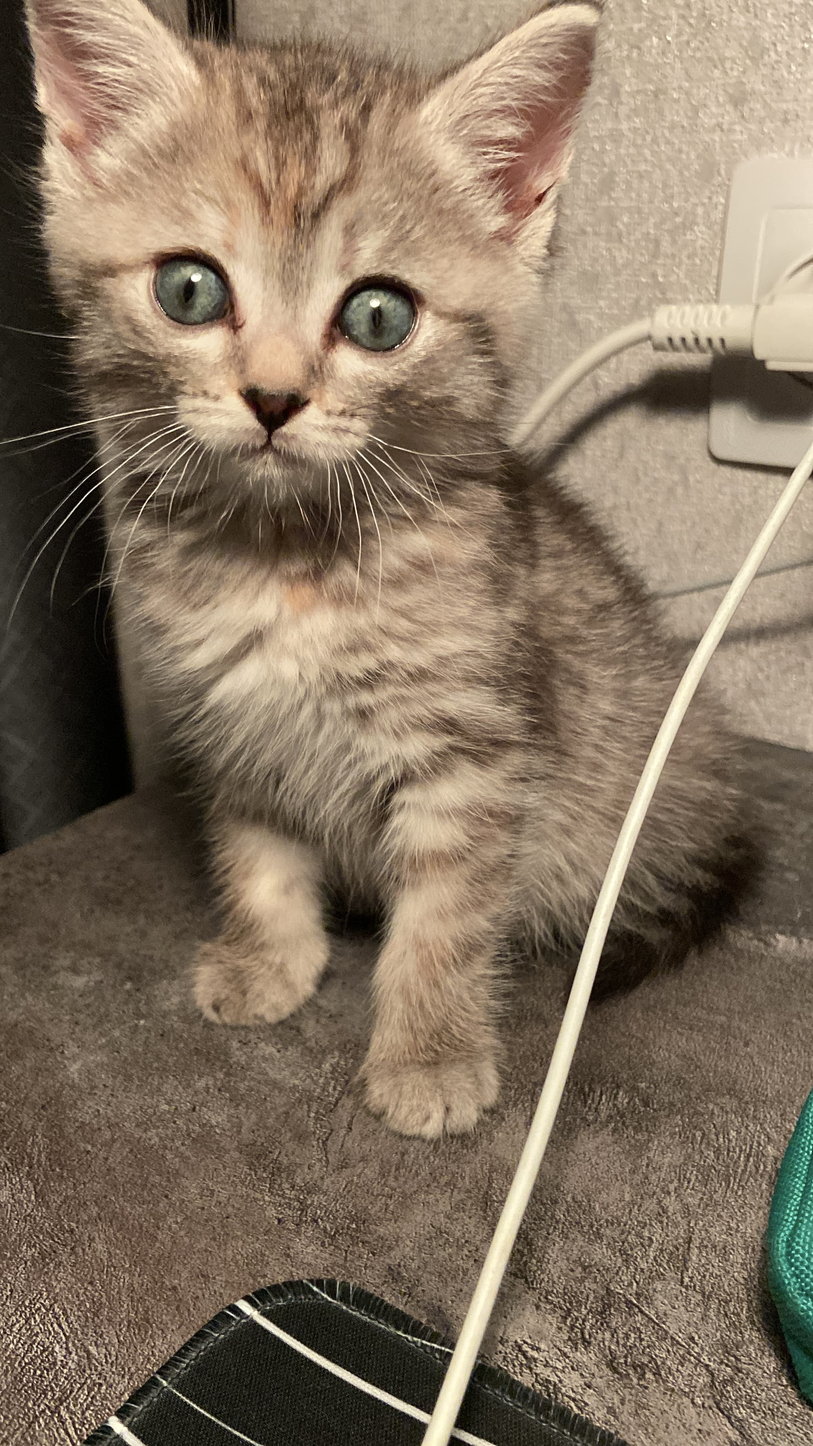
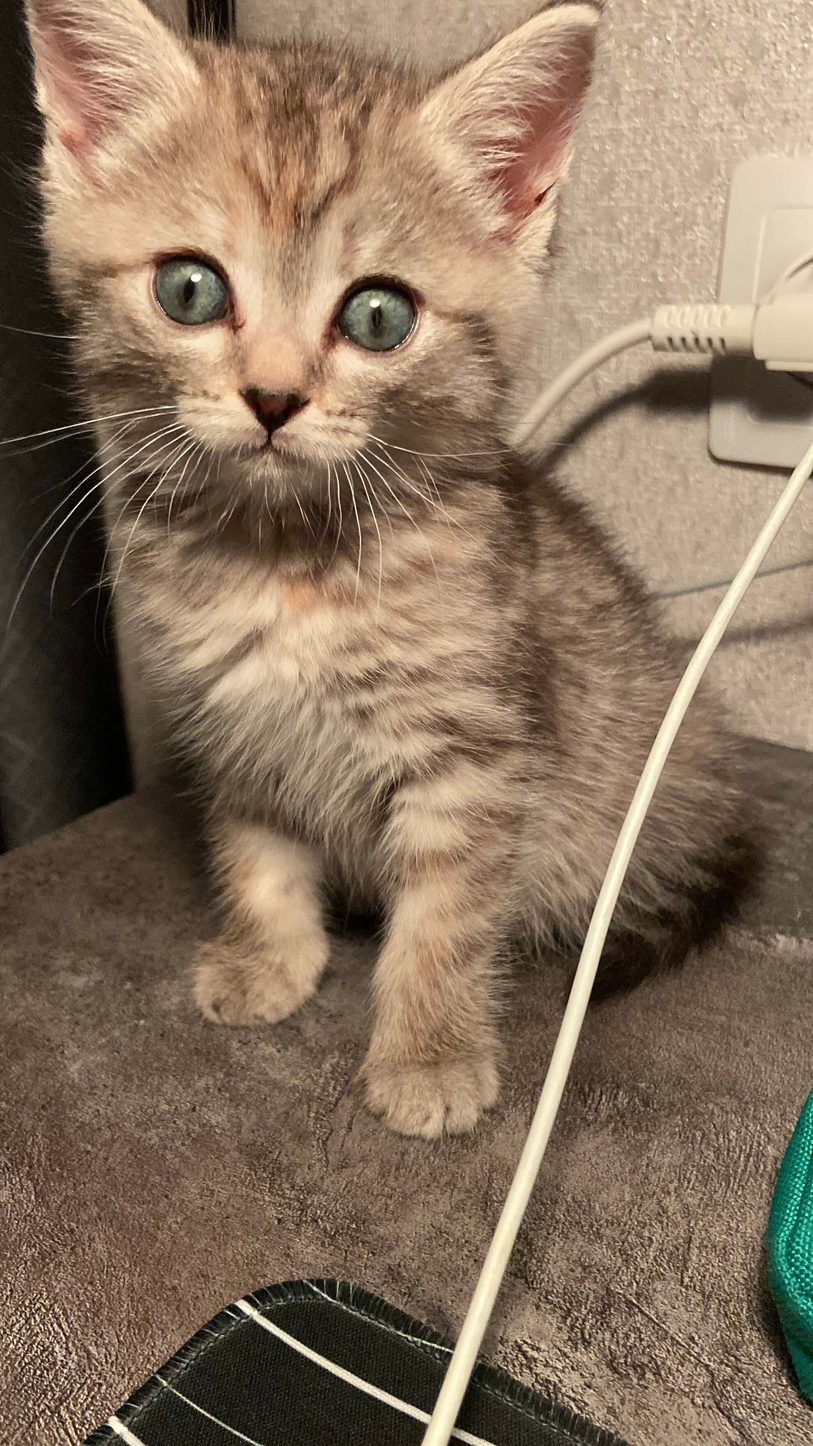
image optimization

Changed region(s): [[0.9551, 0.75, 1.0, 0.9688]]

diff --git a/index.html b/index.html
@@ -135,7 +135,7 @@
         <h3 class="card__title">1 спринт: А если не получится?</h3>
         <div class="card__image-container">
           <span class="card__image-label">&lt;/HTML&gt;</span>
-          <img class="card__image luna_3" src="./images/luna-3.png" alt="" />
+          <img class="card__image luna_3" src="./images/luna-3.jpeg" alt="" />
         </div>
         <div class="card__text">
           <p>
@@ -188,7 +188,7 @@
         <h3 class="card__title">2 спринт: Погоня за идеалом</h3>
         <div class="card__image-container">
           <span class="card__image-label">&lt;/HTML&gt;</span>
-          <img class="card__image luna_4" src="./images/luna-4.png" alt="" />
+          <img class="card__image luna_4" src="./images/luna-4.jpeg" alt="" />
         </div>
         <div class="card__text">
           <p>
@@ -352,7 +352,7 @@
         <h3 class="card__title">3 спринт: Когда опускаются руки</h3>
         <div class="card__image-container">
           <span class="card__image-label">&lt;/HTML&gt;</span>
-          <img class="card__image luna_7" src="./images/luna-7.png" alt="" />
+          <img class="card__image luna_7" src="./images/luna-7.jpeg" alt="" />
         </div>
         <div class="card__text">
           <p>
@@ -407,7 +407,7 @@
         <h3 class="card__title">«Сейчас я здесь»</h3>
         <div class="card__image-container">
           <span class="card__image-label">&lt;/HTML&gt;</span>
-          <img class="card__image luna_8" src="./images/luna-8.png" alt="" />
+          <img class="card__image luna_8" src="./images/luna-8.jpeg" alt="" />
         </div>
         <div class="card__text">
           <p>
